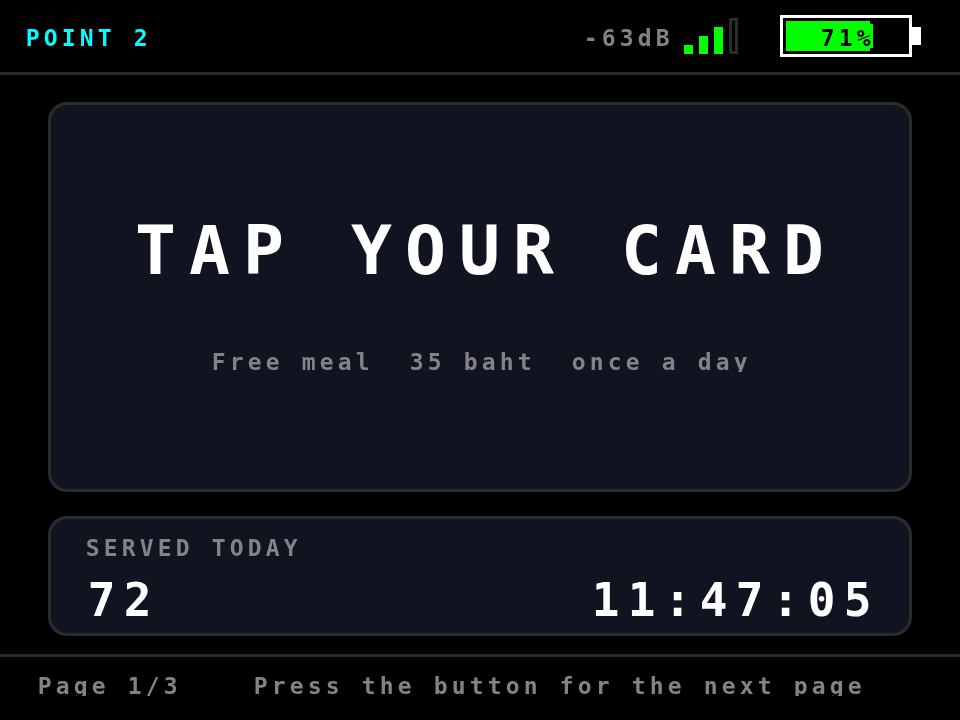
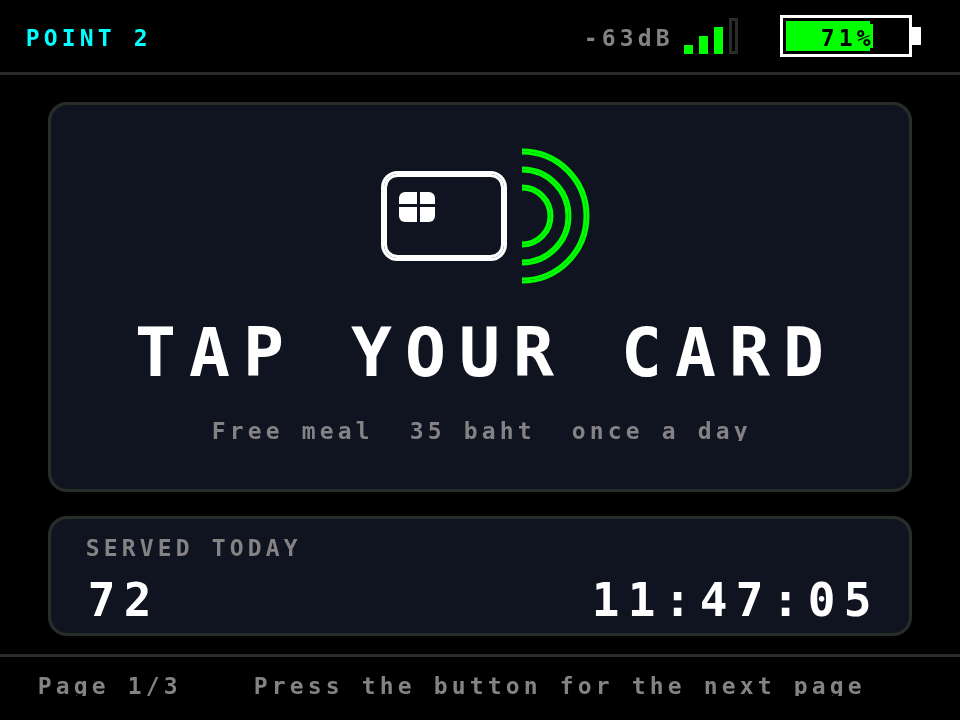
คืนสัญลักษณ์แตะบัตร RFID บนหน้าแรกของจุดบริการ (Station 122.6.0)
สัญลักษณ์นี้เคยมีตั้งแต่รุ่น 118.1.0 แล้วหายไปตอนเริ่มใหม่จากต้นฉบับในรุ่น 122.0.0
หน้าแรกจึงเหลือแต่ตัวหนังสือ นิสิตที่เดินมาถึงไม่มีอะไรบอกว่าเครื่องพร้อมรับบัตร

เอาโค้ดเดิมกลับมา แล้วต่อเข้ากับตัวตรวจสุขภาพ RC522 ที่เดินอยู่ทุกสิบวินาทีอยู่แล้ว
สัญลักษณ์จึงบอกความพร้อมจริง ไม่ใช่รูปนิ่งที่เขียวตลอดเวลา
คลื่นเขียวคือเครื่องอ่านตอบอยู่ แดงคือไม่ตอบ พร้อมเปลี่ยนบรรทัดใต้ข้อความ
เป็น Card reader not responding - call staff ให้ตามเจ้าหน้าที่

ตัวตรวจสุขภาพเดิมสั่ง PCD_Init() แล้วจบ ไม่มีใครรู้ว่าสำเร็จหรือไม่
แก้ให้อ่าน VersionReg ซ้ำหลังเริ่มใหม่ แล้วเก็บผลไว้ใน isReaderReady
และอ่านหนึ่งครั้งตอนบูต สัญลักษณ์จึงถูกต้องตั้งแต่วินาทีแรก ไม่ต้องรอรอบตรวจรอบแรก

จัดหน้าการ์ดใบบนใหม่ให้มีที่ว่างพอ สัญลักษณ์กึ่งกลางที่ (160,72)
TAP YOUR CARD ย้ายลงมาที่ y 100 และบรรทัดคำอธิบายที่ y 139
บรรทัดคำอธิบายเปลี่ยนเป็น drawCenteredText เพราะข้อความสองแบบยาวไม่เท่ากัน

สัญลักษณ์วาดด้วยเส้นโค้ง ซึ่งวาดทับเส้นโค้งเดิมไม่มิด จึงต้องล้างพื้นก่อน
แต่ล้างเฉพาะตอนสถานะเปลี่ยนซึ่งนาน ๆ ครั้ง ไม่ใช่ทุกวินาที จึงไม่กลับไปกะพริบ
เพิ่มกรณีทดสอบตอนเครื่องอ่านล้มและตอนกลับมาปกติลง partial_test.js
ทั้งสองกรณีตรงกับการวาดใหม่ทั้งหน้าทุกพิกเซล ทั้งโหมดมืดและโหมดสว่าง
เส้นทางที่วาดทุกวินาทียังล้างพื้น 0 ครั้งเหมือนเดิม ตัวตรวจทั้งหกตัวผ่านหมด

Claude-Session: https://claude.ai/code/session_01X9SBq9sFrEp9tTPMPW8bbn

diff --git a/docs/interface-gallery.html b/docs/interface-gallery.html
@@ -277,7 +277,7 @@ const HOST = [
   ['tft-host-13-stations-light','หน้า SHOPS โหมดสว่าง','ชุดสีโหมดสว่างถูกปรับแยกจากโหมดมืด'],
 ];
 const STN = [
-  ['tft-stn-01-standby','หน้าแรก — รอแตะบัตร','มีประโยคเดียวที่นิสิตต้องอ่าน TAP YOUR CARD ที่เหลือคือยอดวันนี้และเวลา'],
+  ['tft-stn-01-standby','หน้า 1/3 รอแตะบัตร','สัญลักษณ์แตะบัตรบอกให้นิสิตที่เดินมาถึงรู้ทันทีว่าเครื่องพร้อม คลื่นเป็นสีเขียวเมื่อเครื่องอ่านบัตรยังตอบอยู่ ไม่ใช่รูปนิ่งที่วาดไว้เฉย ๆ'],
   ['tft-stn-02-stats','หน้าสอง — ยอดวันนี้','ยอดของจุดนี้ หมายเลขจุด สถานะการเชื่อมต่อ และเวลา'],
   ['tft-stn-03-diagnostics','หน้าสาม — SYSTEM','ข้อมูลเครื่องสำหรับคนดูแล เดิมแถวแบตเตอรี่กับยอดวันนี้มีแต่หัวข้อไม่มีค่า ตอนนี้เติมครบแล้ว'],
   ['tft-stn-04-screensaver','โหมดพักหน้าจอ','แตะบัตรหรือกดปุ่มเพื่อปลุกจอ'],
@@ -289,6 +289,7 @@ const STN = [
   ['tft-stn-10-idsetup','ตั้งหมายเลขจุดบริการ','กดปุ่มค้าง 3 วินาทีเพื่อเข้า แตะเพื่อเลื่อนเลข แล้วปล่อยรอ 3 วินาทีเพื่อบันทึก'],
   ['tft-stn-11-standby-light','หน้าแรก โหมดสว่าง','ธีมถูกกำหนดจากเครื่องแม่ข่าย ทุกจุดบริการจึงแสดงผลโหมดเดียวกันเสมอ'],
   ['tft-stn-12-themelocked','แจ้งว่าธีมถูกกำหนดจากแม่ข่าย','กดสามครั้งหรือกดค้างที่จุดบริการจะขึ้นหน้านี้แทนการตั้งค่าเอง'],
+  ['tft-stn-13-reader-down','หน้า 1/3 เมื่อเครื่องอ่านบัตรไม่ตอบ','ตัวตรวจสุขภาพ RC522 ที่เดินอยู่ทุกสิบวินาทีอยู่แล้ว ถูกต่อเข้ากับสัญลักษณ์นี้ คลื่นเปลี่ยนเป็นสีแดงพร้อมบรรทัดบอกให้ตามเจ้าหน้าที่ แทนที่จะปล่อยให้นิสิตแตะแล้วไม่มีอะไรเกิดขึ้น'],
 ];
 
 const ALL = [];

diff --git a/tools/screen-preview/tft_screens.js b/tools/screen-preview/tft_screens.js
@@ -314,12 +314,25 @@ function drawRfidTapIcon(cx, cy, cardColor, waveColor, bgColor) {
   }
 }
 
-function stStandby() {
+// [122.6.0] ต้องตรงกับ drawStandbyReadyState() ใน StationScreen.h ทุกพิกัด
+function drawStandbyReadyState(ready) {
+  const bg = CARD();
+  fillRect(160 - 34, 72 - 23, 72, 47, bg);
+  drawRfidTapIcon(160, 72, TEXT(), ready ? GREEN() : ROSE(), bg);
+  if (ready) {
+    drawCenteredText(160, 139, 1, MUTED(), bg, 44, 'Free meal  35 baht  once a day');
+  } else {
+    drawCenteredText(160, 139, 1, ROSE(), bg, 44, 'Card reader not responding - call staff');
+  }
+}
+
+function stStandby(ready) {
+  if (ready === undefined) ready = true;
   fillScreen(BG());
   drawStationTopBar('POINT ' + ST_ID);
   drawStationCard(16, 34, 288, 130, BORDER(), CARD());
-  drawFitCenteredText(24, 62, 272, 40, 'TAP YOUR CARD', 4, TEXT(), CARD());
-  drawFitCenteredText(24, 112, 272, 16, 'Free meal  35 baht  once a day', 1, MUTED(), CARD());
+  drawStandbyReadyState(ready);
+  drawFitCenteredText(24, 100, 272, 32, 'TAP YOUR CARD', 4, TEXT(), CARD());
   drawStationCard(16, 172, 288, 40, BORDER(), CARD());
   setTextColor(MUTED(), CARD()); setTextSize(1); setCursor(28, 178); print('SERVED TODAY');
   drawFixedText(28, 191, 2, TEXT(), CARD(), 4, String(ST_SERVED));
@@ -597,7 +610,8 @@ const SCREENS = [
   ['stn-08-rejected',       'Station · แจ้งผล บัตรไม่อยู่ในทะเบียน',       true,  () => stResult('REJECTED')],
   ['stn-09-offline',        'Station · เตือนขาดการเชื่อมต่อแม่ข่าย',        true,  stOffline],
   ['stn-10-idsetup',        'Station · ตั้งหมายเลขสถานี',                  true,  stIdSetup],
-  ['stn-11-standby-light',  'Station · หน้า 1/3 โหมดสว่าง',               false, stStandby],
+  ['stn-11-standby-light',  'Station · หน้า 1/3 โหมดสว่าง',               false, () => stStandby(true)],
+  ['stn-13-reader-down',    'Station · หน้า 1/3 — เครื่องอ่านบัตรไม่ตอบ',   true,  () => stStandby(false)],
   ['stn-12-themelocked',    'Station · ธีมถูกกำหนดจากแม่ข่าย',            true,  stThemeLocked],
 ];
 window.SCREEN_LIST = SCREENS.map(([id, label]) => ({ id, label }));

diff --git a/tools/screen-preview/partial_test.js b/tools/screen-preview/partial_test.js
@@ -74,17 +74,26 @@ function hostShopValue(i, n) {
 }
 
 /* ---------- station หน้าแรก ---------- */
-function stnStandbyFull(served, clock) {
+function stnStandbyFull(served, clock, ready) {
+  if (ready === undefined) ready = true;
   fillScreen(BG());
   drawStationTopBar('POINT ' + ST_ID);
   drawStationCard(16, 34, 288, 130, BORDER(), CARD());
-  drawFitCenteredText(24, 62, 272, 40, 'TAP YOUR CARD', 4, TEXT(), CARD());
-  drawFitCenteredText(24, 112, 272, 16, 'Free meal  35 baht  once a day', 1, MUTED(), CARD());
+  stnStandbyReady(ready);
+  drawFitCenteredText(24, 100, 272, 32, 'TAP YOUR CARD', 4, TEXT(), CARD());
   drawStationCard(16, 172, 288, 40, BORDER(), CARD());
   setTextColor(MUTED(), CARD()); setTextSize(1); setCursor(28, 178); print('SERVED TODAY');
   stnStandbyServed(served);
   stnStandbyClock(clock);
   drawStationBottomBar('Page 1/3    Press the button for the next page');
+}
+// [122.6.0] ต้องตรงกับ drawStandbyReadyState() ใน StationScreen.h ทุกพิกัด
+function stnStandbyReady(ready) {
+  const bg = CARD();
+  fillRect(160 - 34, 72 - 23, 72, 47, bg);
+  drawRfidTapIcon(160, 72, TEXT(), ready ? GREEN() : ROSE(), bg);
+  drawCenteredText(160, 139, 1, ready ? MUTED() : ROSE(), bg, 44,
+    ready ? 'Free meal  35 baht  once a day' : 'Card reader not responding - call staff');
 }
 function stnStandbyServed(served) {
   drawFixedText(28, 191, 2, TEXT(), CARD(), 4, String(served));
@@ -148,6 +157,12 @@ window.CASES = [
   { id: 'stn-standby-clock', perSecond: true, full: () => stnStandbyFull(72, '9:05:01'),
     start: () => stnStandbyFull(72, '11:47:05'),
     patch: () => stnStandbyClock('9:05:01') },
+  { id: 'stn-reader-down', full: () => stnStandbyFull(72, '11:47:05', false),
+    start: () => stnStandbyFull(72, '11:47:05', true),
+    patch: () => stnStandbyReady(false) },
+  { id: 'stn-reader-back', full: () => stnStandbyFull(72, '11:47:05', true),
+    start: () => stnStandbyFull(72, '11:47:05', false),
+    patch: () => stnStandbyReady(true) },
   { id: 'stn-stats-served', full: () => stnStatsFull(5, '11:47:05', true),
     start: () => stnStatsFull(72, '11:47:05', true),
     patch: () => stnStatsServed(5) },

diff --git a/Canteen_Station_Client/StationScreen.h b/Canteen_Station_Client/StationScreen.h
@@ -1,7 +1,7 @@
 /**
  * @file      StationScreen.h
  * @brief     ทุกอย่างที่วาดลงจอ TFT ของเครื่องประจำร้านค้า
- * @version   122.5.0
+ * @version   122.6.0
  * @date      2026-09-23
  * @author    Kittiphan Rattanakorn <kittiphun.rut@mcu.ac.th>
  *
@@ -22,6 +22,7 @@
  * @par Revision History
  * | Version | Date | Change |
  * |---|---|---|
+ * | 122.6.0 | 2026-09-23 | คืนสัญลักษณ์แตะบัตร RFID กลับมาบนหน้าแรก คลื่นเป็นสีเขียวเมื่อเครื่องอ่านพร้อม และเป็นสีแดงพร้อมข้อความเตือนเมื่อไม่ตอบ |
  * | 122.5.0 | 2026-09-23 | จัดกึ่งกลางหน้าพักจอ ย้ายหน่วยเงินลงใต้ตัวเลข และกระจายแถวหน้า SYSTEM ให้เต็มการ์ด |
  * | 122.4.0 | 2026-09-23 | กรองชื่อและรหัสนิสิตให้เหลือเฉพาะ ASCII ก่อนวาด และตัดความยาวทุกช่อง |
  * | 122.3.0 | 2026-09-22 | เลิกล้างพื้นก่อนเขียนตัวอักษร และแถบสัญญาณเทียบด้วยจำนวนขีดแทนค่า dBm ดิบ |
@@ -138,6 +139,42 @@ void drawFixedText(int x, int y, uint8_t size, uint16_t fg, uint16_t bg,
 void drawStationCard(int x, int y, int w, int h, uint16_t borderColor, uint16_t bgColor) {
   tft.fillRoundRect(x, y, w, h, 6, bgColor);
   tft.drawRoundRect(x, y, w, h, 6, borderColor);
+}
+
+// ============================================================================
+// สัญลักษณ์แตะบัตร RFID
+// ============================================================================
+// [122.6.0] เพิ่ม: เอาสัญลักษณ์กลับมา เคยมีตั้งแต่รุ่น 118.1.0 แล้วหายไปตอนเริ่มใหม่
+//           จากต้นฉบับในรุ่น 122.0.0 นิสิตที่เดินมาถึงจึงไม่มีอะไรบอกว่าเครื่องพร้อม
+//           วาดด้วยพรีมิทีฟของ Adafruit GFX ล้วน ๆ จึงไม่กินแฟลชเพิ่มเหมือนการฝังบิตแมป
+//           drawCircleHelper ใช้บิต 0x2 (เสี้ยวบนขวา) กับ 0x4 (เสี้ยวล่างขวา)
+//           รวมกันเป็น 0x6 คือครึ่งขวาของวงกลม
+//
+// กรอบที่สัญลักษณ์นี้กิน เทียบกับจุดกึ่งกลางที่ส่งเข้ามา
+//   แนวนอน  cx-33 ถึง cx+36   (70 พิกเซล)
+//   แนวตั้ง  cy-22 ถึง cy+22   (45 พิกเซล)
+// ตัวเลขชุดนี้ต้องตรงกับ RFID_ICON_* ข้างล่าง ซึ่งใช้ตอนล้างพื้นก่อนวาดทับ
+#define RFID_ICON_X(cx)  ((cx) - 34)
+#define RFID_ICON_Y(cy)  ((cy) - 23)
+#define RFID_ICON_W      72
+#define RFID_ICON_H      47
+
+void drawRfidTapIcon(int cx, int cy, uint16_t cardColor, uint16_t waveColor, uint16_t bgColor) {
+  // ตัวบัตร วาดสองชั้นให้เส้นหนาขึ้น เพื่อให้เห็นชัดจากอีกฝั่งของเคาน์เตอร์
+  tft.drawRoundRect(cx - 33, cy - 15, 42, 30, 5, cardColor);
+  tft.drawRoundRect(cx - 32, cy - 14, 40, 28, 4, cardColor);
+
+  // ชิปสัมผัสบนหน้าบัตร เส้นสีพื้นสองเส้นตัดให้เป็นลายชิป
+  tft.fillRoundRect(cx - 27, cy - 8, 12, 10, 2, cardColor);
+  tft.drawFastHLine(cx - 27, cy - 4, 12, bgColor);
+  tft.drawFastVLine(cx - 21, cy - 8, 10, bgColor);
+
+  // คลื่นสัญญาณสามชั้น ไล่รัศมีออกไปทางขวา
+  for (int i = 0; i < 3; i++) {
+    int r = 9 + i * 6;
+    tft.drawCircleHelper(cx + 14, cy, r, 0x6, waveColor);
+    tft.drawCircleHelper(cx + 14, cy, r + 1, 0x6, waveColor);
+  }
 }
 
 void drawStationPillBadge(int x, int y, int w, int h, const char* text, uint16_t fgColor, uint16_t bgColor) {
@@ -343,12 +380,18 @@ void refreshStationLiveValues(bool force) {
   static int  lastServed = -1;
   static String lastClock = "";
   static int  lastOnline = -1;
+  static int  lastReady  = -1;
 
   int served = (int)totalSuccessToday;
   String clock = getTimeOnlyStr();
 
   // ---- หน้าแรก: ยอดวันนี้มุมซ้ายล่าง และนาฬิกามุมขวาล่าง ----
   if (currentState == STATE_STANDBY && currentStationPage == 1) {
+    // [122.6.0] เพิ่ม: สัญลักษณ์แตะบัตรเปลี่ยนสีตามความพร้อมของเครื่องอ่านบัตร
+    //           วาดเฉพาะตอนสถานะเปลี่ยน ไม่ได้วาดทุกวินาที
+    if (force || (int)isReaderReady != lastReady) {
+      drawStandbyReadyState(isReaderReady);
+    }
     if (force || served != lastServed) {
       drawFixedText(28, 191, 2, getStTextMain(), getStCardBg(), 4, "%d", served);
     }
@@ -389,6 +432,7 @@ void refreshStationLiveValues(bool force) {
   lastServed = served;
   lastClock  = clock;
   lastOnline = (int)isHostOnline;
+  lastReady  = (int)isReaderReady;
 
   // แถบสัญญาณและแบตเตอรี่มุมขวาบน วาดเองเมื่อค่าเปลี่ยนพอสมควร
   updateTopRightHeaderSmooth(lastHostRssi, isHostOnline, force);
@@ -448,17 +492,41 @@ void showStationPage(int page, bool fullRedraw) {
 }
 
 // [122.0.0] แก้: หน้าที่นิสิตเห็นมากที่สุด จึงเหลือประโยคเดียวที่ต้องอ่าน
+// [122.6.0] เพิ่ม: สัญลักษณ์แตะบัตรพร้อมบรรทัดคำอธิบาย บนหน้าแรกของจุดบริการ
+//           แยกออกมาเป็นฟังก์ชันของตัวเองเพราะถูกเรียกจากสองที่
+//           คือตอนวาดหน้าใหม่ทั้งหน้า และตอนที่เครื่องอ่านบัตรเปลี่ยนสถานะ
+//           ทั้งสองที่จึงใช้พิกัดชุดเดียวกันเสมอ ไม่มีทางเลื่อนออกจากกันได้
+//
+// สีคลื่นบอกความพร้อม เขียวคือเครื่องอ่านตอบอยู่ แดงคือไม่ตอบ
+// ล้างพื้นก่อนวาดเพราะเส้นโค้งวาดทับเส้นโค้งเดิมไม่มิด สีเก่าจะค้างตามขอบ
+// จุดนี้วาดเฉพาะตอนสถานะเปลี่ยนซึ่งนาน ๆ ครั้ง จึงไม่ทำให้กลับไปกะพริบทุกวินาที
+void drawStandbyReadyState(bool ready) {
+  uint16_t bg = getStCardBg();
+  tft.fillRect(RFID_ICON_X(160), RFID_ICON_Y(72), RFID_ICON_W, RFID_ICON_H, bg);
+  drawRfidTapIcon(160, 72, getStTextMain(), ready ? getStGreen() : getStRose(), bg);
+
+  // ความกว้าง 44 ตัวอักษรที่ขนาด 1 คือ 264 พิกเซล พอดีกับช่องในการ์ด
+  // ข้อความยาวไม่เท่ากัน จึงต้องเป็น drawCenteredText ที่เติมช่องว่างทั้งสองข้าง
+  // ไม่ใช่ drawFitCenteredText ที่ไม่ลบของเดิม
+  if (ready) {
+    drawCenteredText(160, 139, 1, getStTextMuted(), bg, 44,
+                     "Free meal  35 baht  once a day");
+  } else {
+    drawCenteredText(160, 139, 1, getStRose(), bg, 44,
+                     "Card reader not responding - call staff");
+  }
+}
+
 void displayTapCardStandby() {
   ledStandby();
   tft.fillScreen(getStBg());
 
   drawStationTopBar(String(dynamicShopLabel));
 
-  // ช่องใหญ่ช่องเดียว มีประโยคเดียวที่นิสิตต้องอ่าน
+  // ช่องใหญ่ช่องเดียว มีสัญลักษณ์แตะบัตรกับประโยคเดียวที่นิสิตต้องอ่าน
   drawStationCard(16, 34, 288, 130, getStCardBorder(), getStCardBg());
-  drawFitCenteredText(24, 62, 272, 40, "TAP YOUR CARD", 4, getStTextMain(), getStCardBg());
-  drawFitCenteredText(24, 112, 272, 16, "Free meal  35 baht  once a day", 1,
-                      getStTextMuted(), getStCardBg());
+  drawStandbyReadyState(isReaderReady);
+  drawFitCenteredText(24, 100, 272, 32, "TAP YOUR CARD", 4, getStTextMain(), getStCardBg());
 
   // ช่องล่าง: ยอดของจุดบริการนี้วันนี้ และเวลา
   drawStationCard(16, 172, 288, 40, getStCardBorder(), getStCardBg());

diff --git a/CHANGELOG.md b/CHANGELOG.md
@@ -1,5 +1,64 @@
 # CHANGELOG
 
+## คืนสัญลักษณ์แตะบัตรกลับมา และทำให้มันบอกความพร้อมจริง (Host 113.6.0 / Station 122.6.0)
+
+ท่านทักว่า **"ฝั่ง Station ท่านได้ลบสัญลักษณ์ในการแตะบัตรไปไหม ผมยังต้องการสัญลักษณ์นั่นครับ
+เพื่อผู้ใช้งานรู้ว่าเครื่องพร้อมให้บริการ"**
+
+ถูกต้องครับ **หายไปจริง** สัญลักษณ์นี้เคยมีตั้งแต่รุ่น 118.1.0 แล้วหายไปตอนที่เริ่มใหม่
+จากต้นฉบับในรุ่น 122.0.0 หน้าแรกจึงเหลือแต่ตัวหนังสือ นิสิตที่เดินมาถึงไม่มีอะไรบอกว่า
+เครื่องพร้อมรับบัตรอยู่หรือเปล่า ผมเอาโค้ดเดิมกลับมาทั้งดุ้น
+
+### แต่เอากลับมาเฉย ๆ ยังไม่ตอบโจทย์ที่ท่านบอก
+
+ท่านบอกเหตุผลไว้ชัดว่าต้องการให้ **"ผู้ใช้งานรู้ว่าเครื่องพร้อมให้บริการ"**
+ของเดิมเป็นรูปนิ่ง คลื่นเป็นสีเขียวตลอดเวลา ถ้าเครื่องอ่านบัตรค้างขึ้นมา
+สัญลักษณ์ก็ยังเขียวอยู่ดี นิสิตแตะแล้วไม่มีอะไรเกิดขึ้น แล้วก็ยืนงงกันอยู่ตรงนั้น
+
+ในโค้ดมี `checkRC522()` ที่อ่านทะเบียนรุ่นของ RC522 ทุกสิบวินาทีอยู่แล้ว
+แต่ของเดิม **ถ้าอ่านไม่ได้ก็แค่สั่งเริ่มใหม่แล้วจบ** ไม่มีใครรู้ว่าสำเร็จหรือไม่
+และไม่มีอะไรบนหน้าจอบอก ผมจึงต่อสองส่วนนี้เข้าด้วยกัน
+
+* อ่านทะเบียนรุ่น **ซ้ำอีกครั้งหลังสั่งเริ่มใหม่** แล้วเก็บผลไว้ใน `isReaderReady`
+* อ่านหนึ่งครั้งตอนบูตด้วย สัญลักษณ์จะได้ถูกต้องตั้งแต่วินาทีแรก ไม่ต้องรอรอบตรวจรอบแรก
+* คลื่นของสัญลักษณ์ **เขียว = เครื่องอ่านตอบอยู่**, **แดง = ไม่ตอบ**
+  และบรรทัดใต้ข้อความเปลี่ยนจาก `Free meal  35 baht  once a day`
+  เป็น `Card reader not responding - call staff`
+
+สัญลักษณ์จึงไม่ใช่ของประดับ แต่เป็นสิ่งที่เจ้าหน้าที่มองแวบเดียวก็รู้ว่าเครื่องไหนต้องไปดู
+
+### จัดหน้าใหม่ให้มีที่ว่างพอ
+
+การ์ดใบบนมีที่ว่างเหลืออยู่แล้วราว 36 พิกเซลด้านล่าง จัดใหม่เป็น
+
+| ส่วน | ตำแหน่ง |
+|---|---|
+| สัญลักษณ์แตะบัตร | กึ่งกลางที่ (160, 72) กินพื้นที่ 72×47 พิกเซล |
+| `TAP YOUR CARD` | y 100 สูง 32 |
+| บรรทัดคำอธิบาย | y 139 |
+
+บรรทัดคำอธิบายเปลี่ยนจาก `drawFitCenteredText()` เป็น `drawCenteredText()`
+เพราะข้อความสองแบบยาวไม่เท่ากัน ตัวเดิมไม่ลบของเก่า สลับข้อความแล้วจะมีหางค้าง
+
+### ตรวจแล้วว่าไม่กลับไปกะพริบ
+
+จุดที่ผมระวังที่สุดคือสัญลักษณ์นี้วาดด้วยเส้นโค้ง ซึ่งวาดทับเส้นโค้งเดิมไม่มิด
+สีเก่าจะค้างตามขอบเหมือนที่เคยเจอกับป้าย ONLINE/OFFLINE และแถบความคืบหน้า
+จึงต้องล้างพื้นก่อน — แต่การล้างพื้นคือต้นเหตุของการกะพริบที่เพิ่งแก้ไป
+
+ทางออกคือ **ล้างพื้นเฉพาะตอนสถานะเปลี่ยน** ซึ่งนาน ๆ ครั้ง ไม่ใช่ทุกวินาที
+เพิ่มกรณีทดสอบสองกรณีใน `partial_test.js` คือตอนเครื่องอ่านล้ม และตอนกลับมาปกติ
+ทั้งสองกรณี **ตรงกับการวาดใหม่ทั้งหน้าทุกพิกเซล ทั้งโหมดมืดและโหมดสว่าง**
+ส่วนเส้นทางที่วาดทุกวินาที (นาฬิกา) ยังล้างพื้น **0 ครั้ง** เหมือนเดิม
+
+ตัวตรวจคอมเมนต์ยังจับได้ด้วยว่าผมเผลอใช้คำว่า "คืนกลับ" ในป้ายเวอร์ชัน
+ซึ่งไม่อยู่ในคำที่มาตรฐานอนุญาต (เพิ่ม/แก้/ย้าย) แก้เป็น "เพิ่ม" แล้ว
+
+**ยังคอมไพล์ไม่ได้เหมือนเดิมครับ** รบกวนท่านแฟลชแล้วดูว่าคลื่นเขียวขึ้นถูกต้องไหม
+และถ้าอยากลองกรณีแดง ให้ถอดสาย SDA ของ RC522 ออกสักสิบวินาที
+
+---
+
 ## จอสาธารณะบนทีวีในโรงอาหาร (Host 113.6.0 / Station 122.5.0)
 
 ท่านถามว่า **"เรายังคงมีการแสดงผลแบบไม่ต้องล็อกอินไหมครับ เพื่อไปเปิดบนหน้าจอทีวีจอใหญ่"**
